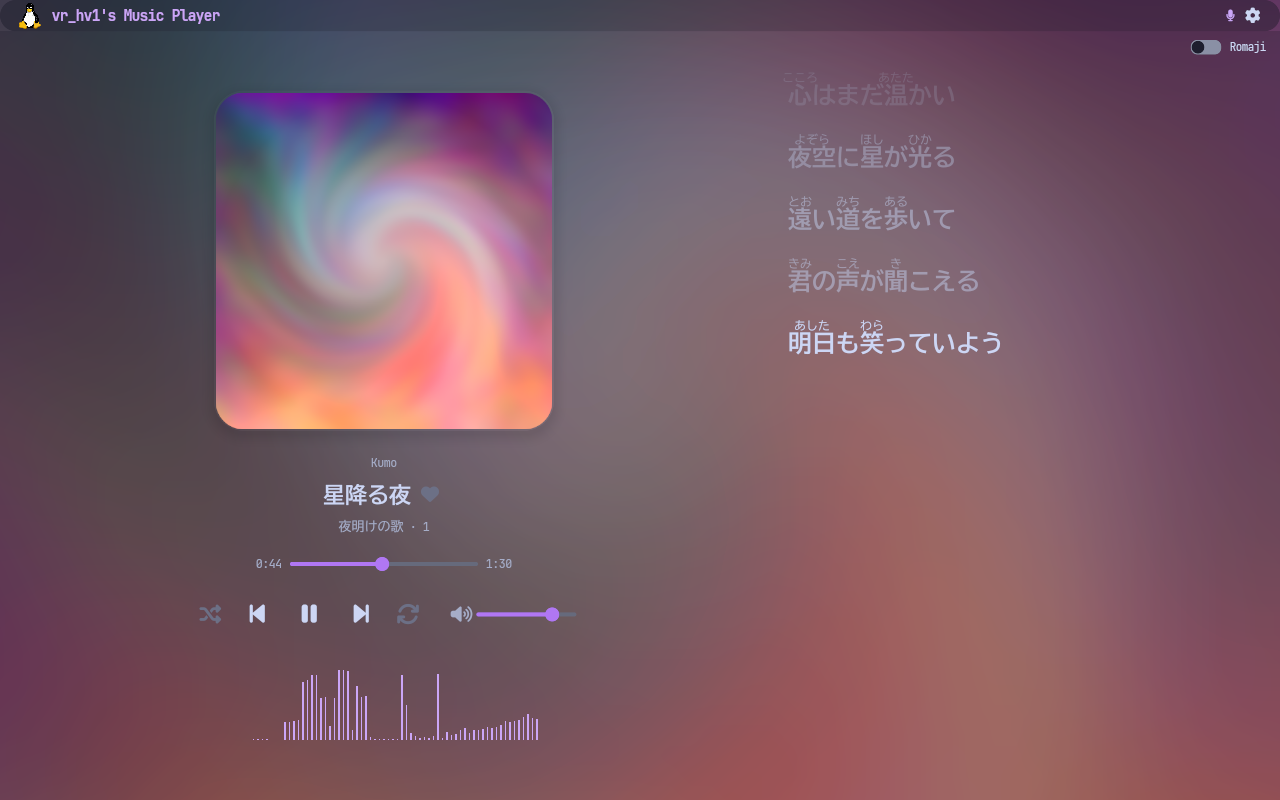
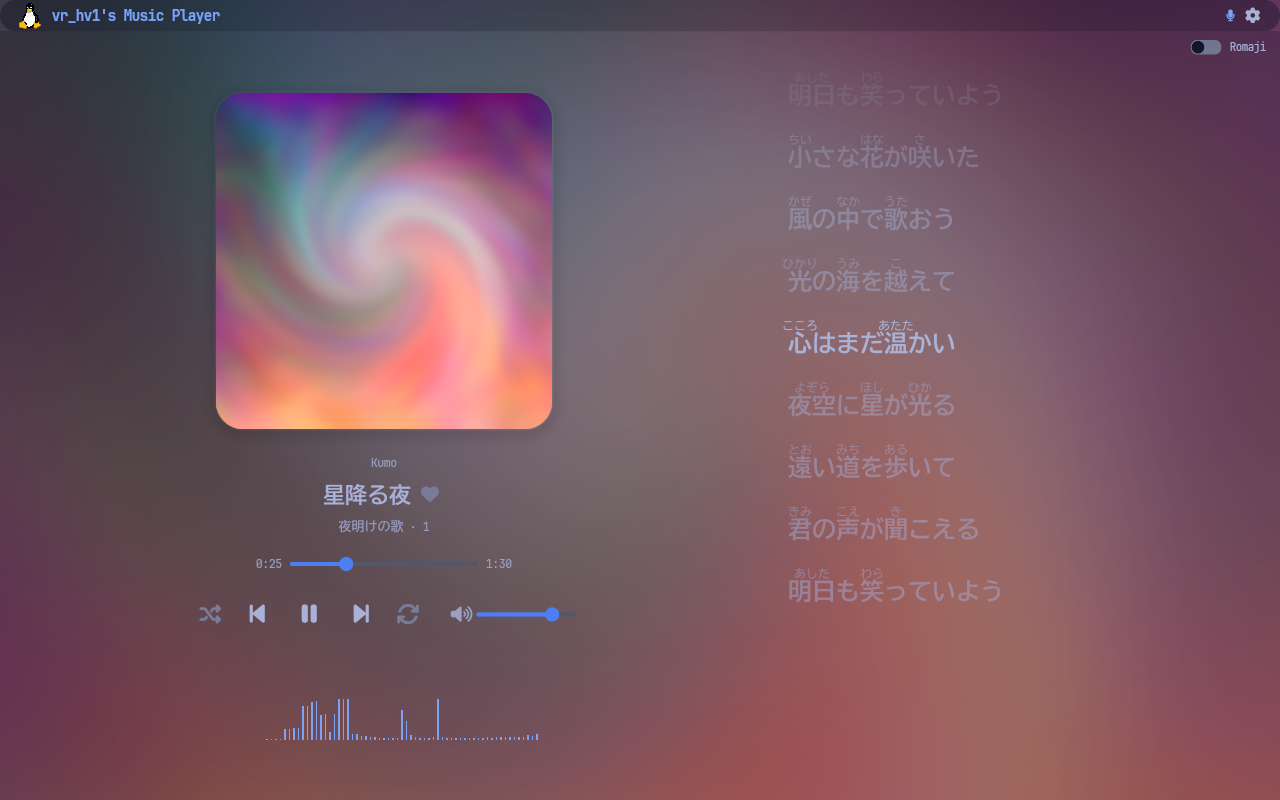
fix: colours through tmux, phone lyrics scroll; Tokyo Night screenshots (1.2.1)
- vrmusic: set COLORTERM=truecolor when unset, so tmux passes 24-bit
  colour through instead of mapping to 256 colours (measured: 136
  256-colour codes before, 0 after)
- Phone page: the lyrics box is the offset parent, so following the
  sung line scrolls within it (it scrolled ~550 px past before; found by
  driving the page in WebKitGTK); songs without a cover show the app icon
- Phone pages take the player's theme colours
- Config and state floats saved rounded (volume = 0.8, not
  0.800000011920929), with tests
- Screenshots retaken in Tokyo Night; new iPhone picture from real
  captures (terminal at a phone size and the page in WebKit at 393x852)
- Version 1.2.1

diff --git a/src/tui/phone.html b/src/tui/phone.html
@@ -33,7 +33,8 @@
   button { background: none; border: 0; color: var(--text); padding: 6px; cursor: pointer; }
   button svg { width: 34px; height: 34px; fill: currentColor; }
   #play svg { width: 58px; height: 58px; }
-  #lyrics { flex: 1; min-height: 160px; max-height: 42vh; overflow-y: auto; padding: 8px 4px 40vh;
+  /* position: relative makes the lines' offsetTop count from this box. */
+  #lyrics { position: relative; flex: 1; min-height: 160px; max-height: 42vh; overflow-y: auto; padding: 8px 4px 40vh;
     background: var(--card); border-radius: 16px; scroll-behavior: smooth; }
   #lyrics p { margin: 0; padding: 7px 14px; font-size: 18px; font-weight: 600; color: rgba(236,232,246,.38);
     transition: color .25s, transform .25s; transform-origin: left center; }
@@ -45,6 +46,7 @@
   #tap.show { display: flex; }
   #tap b { font-size: 64px; color: var(--accent); }
 </style>
+<style id="theme"></style>
 </head>
 <body>
 <div id="backdrop"></div>
@@ -113,7 +115,10 @@ function showTrack(track, id) {
   $("title").textContent = track ? track.title : "Loading…";
   $("artist").textContent = track ? [track.artist, track.album].filter(Boolean).join(" — ") : "";
   const cover = url(`cover/${id}`);
-  $("cover").src = cover;
+  const img = $("cover");
+  // No cover: show the app icon rather than a broken image.
+  img.onerror = () => { img.onerror = null; img.src = "icon.png"; };
+  img.src = cover;
   $("backdrop").style.backgroundImage = `url("${cover}")`;
   if ("mediaSession" in navigator && track) {
     navigator.mediaSession.metadata = new MediaMetadata({

diff --git a/src/tui/pair.html b/src/tui/pair.html
@@ -22,6 +22,7 @@
     border-radius: 14px; background: var(--accent); color: #1a1426; }
   #msg { min-height: 24px; margin-top: 14px; color: var(--bad); }
 </style>
+<style id="theme"></style>
 </head>
 <body>
 <main>

diff --git a/src/config.rs b/src/config.rs
@@ -9,11 +9,13 @@ static CONFIG: OnceLock<Config> = OnceLock::new();
 #[serde(default)]
 pub struct Config {
     pub music_dir: String, // String para suportar "~" antes de expandir
+    #[serde(serialize_with = "tidy_f32")]
     pub volume: f32,
     pub shuffle: bool,
     pub repeat: bool,
     pub language: String,
     pub seek_step: u64,
+    #[serde(serialize_with = "tidy_f32")]
     pub volume_step: f32,
     // YouTube search / download (via yt-dlp)
     pub yt_dlp_path: String,
@@ -25,11 +27,13 @@ pub struct Config {
     pub theme_mode: String, // "auto" | "manual"
     pub theme_preset: String,
     pub use_glassmorphism: bool,
+    #[serde(serialize_with = "tidy_f32")]
     pub corner_radius: f32,
     pub background_kind: String,
     pub background_color: String,
     pub background_gradient_from: String,
     pub background_gradient_to: String,
+    #[serde(serialize_with = "tidy_f32")]
     pub background_gradient_angle: f32,
     pub background_image: String, // empty = none
     // Lyrics: look up lyrics on lrclib.net when none are found locally
@@ -37,6 +41,7 @@ pub struct Config {
     // Spectrum bars: "mirrored" (above and below a centre line) | "bottom"
     pub spectrum_style: String,
     // Album cover size in the player panel, in pixels (focus layout: 1.4×)
+    #[serde(serialize_with = "tidy_f32")]
     pub cover_size: f32,
     // Terminal client: port of the phone player page (`o` switches output)
     pub phone_port: u16,
@@ -121,6 +126,23 @@ fn read_or_default() -> Config {
     }
 }
 
+/// f32 settings saved as written (0.8, not 0.800000011920929): the value
+/// is widened to f64 and rounded to six decimals.
+pub fn tidy(v: f32) -> f64 {
+    (v as f64 * 1e6).round() / 1e6
+}
+
+pub fn tidy_f32<S: serde::Serializer>(v: &f32, s: S) -> Result<S::Ok, S::Error> {
+    s.serialize_f64(tidy(*v))
+}
+
+pub fn tidy_opt_f32<S: serde::Serializer>(v: &Option<f32>, s: S) -> Result<S::Ok, S::Error> {
+    match v {
+        Some(v) => s.serialize_some(&tidy(*v)),
+        None => s.serialize_none(),
+    }
+}
+
 pub fn config_path() -> PathBuf {
     expand_tilde("~/.config/lavanda/config.toml")
 }
@@ -137,3 +159,17 @@ pub fn expand_tilde(path: &str) -> PathBuf {
 // ── Config padrão gerada na primeira execução ─────────────────────────────────
 
 const DEFAULT_CONFIG: &str = "# lavanda - configuration file\n# ~/.config/lavanda/config.toml\n\nmusic_dir = \"~/Music\"\nvolume = 0.8\nshuffle = false\nrepeat = false\nlanguage = \"auto\"\nseek_step = 5\nvolume_step = 0.05\nyt_dlp_path = \"yt-dlp\"\nyt_dlp_format = \"mp3\"\nyt_dlp_quality = \"128K\"\nyt_dlp_output = \"%(title)s.%(ext)s\"\nyt_search_results = 15\ntheme_mode = \"auto\"\ntheme_preset = \"lavender\"\nuse_glassmorphism = true\ncorner_radius = 10.0\nbackground_kind = \"none\"\nbackground_color = \"#11111b\"\nbackground_gradient_from = \"#1e1b2e\"\nbackground_gradient_to = \"#0f0e17\"\nbackground_gradient_angle = 135.0\nbackground_image = \"\"\nlyrics_online = true\nspectrum_style = \"mirrored\"\ncover_size = 240.0\nphone_port = 8337\n";
+
+#[cfg(test)]
+mod tests {
+    #[test]
+    fn saved_numbers_have_no_float_noise() {
+        let mut cfg = super::Config::default();
+        cfg.volume = 0.01;
+        let text = toml::to_string_pretty(&cfg).unwrap();
+        assert!(text.contains("volume = 0.01\n"), "{text}");
+        assert!(text.contains("volume_step = 0.05\n"), "{text}");
+        let back: super::Config = toml::from_str(&text).unwrap();
+        assert_eq!(back.volume, 0.01);
+    }
+}

diff --git a/src/tui/phone.rs b/src/tui/phone.rs
@@ -369,6 +369,24 @@ fn check_code(ctx: &Ctx, typed: &str) -> CodeCheck {
     CodeCheck::Wrong
 }
 
+/// The page in the player's colours (your Omarchy theme or the preset).
+fn themed(page: &str) -> String {
+    use crate::theme;
+    let hex = |c: iced::Color| {
+        let b = |v: f32| (v.clamp(0.0, 1.0) * 255.0).round() as u8;
+        format!("#{:02x}{:02x}{:02x}", b(c.r), b(c.g), b(c.b))
+    };
+    let bg = hex(theme::base());
+    let vars = format!(
+        "<style id=\"theme\">:root {{ --bg: {bg}; --text: {}; --dim: {}; --accent: {}; --bad: {}; }}</style>",
+        hex(theme::text()),
+        hex(theme::subtext()),
+        hex(theme::accent()),
+        hex(theme::red()),
+    );
+    page.replace("<style id=\"theme\"></style>", &vars).replace("content=\"#14121c\"", &format!("content=\"{bg}\""))
+}
+
 /// Compares in time independent of where the strings differ.
 fn same_key(a: &str, b: &str) -> bool {
     a.len() == b.len() && a.bytes().zip(b.bytes()).fold(0u8, |acc, (x, y)| acc | (x ^ y)) == 0
@@ -398,7 +416,7 @@ async fn handle(mut sock: TcpStream, ctx: Arc<Ctx>) -> std::io::Result<()> {
             // Without the key: the page asking for the pairing code.
             ("GET", "/") => {
                 let headers = [("Content-Type", "text/html; charset=utf-8".into()), ("Cache-Control", "no-store".into())];
-                respond(&mut sock, "200 OK", &headers, PAIR_PAGE.as_bytes()).await
+                respond(&mut sock, "200 OK", &headers, themed(PAIR_PAGE).as_bytes()).await
             }
             ("GET", "/pair") => {
                 let typed: String = req.query.get("code").map(|c| c.chars().filter(char::is_ascii_digit).collect()).unwrap_or_default();
@@ -418,7 +436,7 @@ async fn handle(mut sock: TcpStream, ctx: Arc<Ctx>) -> std::io::Result<()> {
     match (req.method.as_str(), segments.as_slice()) {
         ("GET", [""]) => {
             let headers = [("Content-Type", "text/html; charset=utf-8".into()), ("Cache-Control", "no-store".into()), ("Referrer-Policy", "no-referrer".into())];
-            respond(&mut sock, "200 OK", &headers, PAGE.as_bytes()).await
+            respond(&mut sock, "200 OK", &headers, themed(PAGE).as_bytes()).await
         }
         ("GET", ["events"]) => events(sock, ctx).await,
         ("GET", ["audio", id]) => {

diff --git a/src/state.rs b/src/state.rs
@@ -4,8 +4,10 @@ use serde::{Deserialize, Serialize};
 
 #[derive(Serialize, Deserialize, Default)]
 pub struct SavedState {
+    #[serde(serialize_with = "crate::config::tidy_opt_f32", skip_serializing_if = "Option::is_none")]
     pub volume: Option<f32>,
     pub show_lyrics: Option<bool>,
+    #[serde(serialize_with = "crate::config::tidy_opt_f32", skip_serializing_if = "Option::is_none")]
     pub lyrics_width: Option<f32>,
     pub lyrics_romaji: Option<bool>,
 }
@@ -34,5 +36,15 @@ pub fn save(s: &SavedState) {
     }
     if let Ok(content) = toml::to_string(s) {
         std::fs::write(path, content).ok();
+    }
+}
+
+#[cfg(test)]
+mod tests {
+    #[test]
+    fn saved_state_has_no_float_noise() {
+        let s = super::SavedState { volume: Some(0.01), show_lyrics: Some(true), lyrics_width: None, lyrics_romaji: None };
+        let text = toml::to_string(&s).unwrap();
+        assert_eq!(text, "volume = 0.01\nshow_lyrics = true\n");
     }
 }

diff --git a/CHANGELOG.md b/CHANGELOG.md
@@ -4,6 +4,22 @@ All notable changes to this project. The format follows
 [Keep a Changelog](https://keepachangelog.com/en/1.1.0/), and versions follow
 [Semantic Versioning](https://semver.org/).
 
+## [1.2.1] - 2026-11-20
+
+### Fixed
+
+- Through `vrmusic`, tmux showed the terminal client in 256 colours (posterised album art and theme)
+  when the terminal didn't announce 24-bit colour, as over SSH. `vrmusic` now tells tmux it can.
+- The phone player's lyrics box scrolled past the line being sung, leaving it out of view.
+- The phone player showed a broken image for songs without a cover; it shows the app icon now.
+- Settings and window state were saved with float noise (`volume = 0.800000011920929`); they're saved
+  as written now (`volume = 0.8`).
+
+### Changed
+
+- The phone player's pages use the player's colours (your Omarchy theme or the chosen preset).
+- Screenshots in the Tokyo Night theme, and an accurate picture of the iPhone setup.
+
 ## [1.2.0] - 2026-11-20
 
 ### Added
@@ -84,6 +100,7 @@ The first release of this fork, based on [lavanda](https://github.com/sheep-farm
 - Lyrics uploads with a translation woven in highlighted the translation.
 - Leftover `notify-send` processes piled up.
 
+[1.2.1]: https://github.com/CodingTort/vr_hv1-s-music-client/releases/tag/v1.2.1
 [1.2.0]: https://github.com/CodingTort/vr_hv1-s-music-client/releases/tag/v1.2.0
 [1.1.1]: https://github.com/CodingTort/vr_hv1-s-music-client/releases/tag/v1.1.1
 [1.1.0]: https://github.com/CodingTort/vr_hv1-s-music-client/releases/tag/v1.1.0

diff --git a/README.md b/README.md
@@ -234,8 +234,6 @@ with 24-bit colour, including SSH apps on phones, and adapts to the size of the 
 - **Narrow ones** (a phone held upright) show one pane at a time: switch with `Tab` or tap the tabs at the top.
 - **`t`** switches to a now-playing view with big album art and the lyrics.
 
-<p align="center"><img src="docs/screenshots/terminal-narrow.png" width="300" alt="The terminal client on a narrow screen: album art, song, progress and lyrics with furigana"></p>
-
 | Key | Action | | Key | Action |
 |---|---|---|---|---|
 | `Space` | play / pause | | `k` | lyrics pane |
@@ -257,8 +255,10 @@ click a lyric line to jump to it. Messages the player would print go to `~/.cach
 
 ## Listen on your phone
 
+<p align="center"><img src="docs/screenshots/phone.png" width="560" alt="On an iPhone: vrmusic in an SSH app (now-playing view with furigana) and the phone player in Safari, playing the same song with synced lyrics"></p>
+
 Press `o` in the terminal client and the music moves to your phone: it plays in the phone's browser
-(Safari on an iPhone), with the album art, synced lyrics and lock-screen controls. The terminal client
+(Safari on an iPhone), with the album art, synced lyrics and lock-screen controls, in the player's theme. The terminal client
 stays the remote control, and the page has its own play, pause and skip buttons. Press `o` again to bring
 the music back to the computer at the same spot.
 
